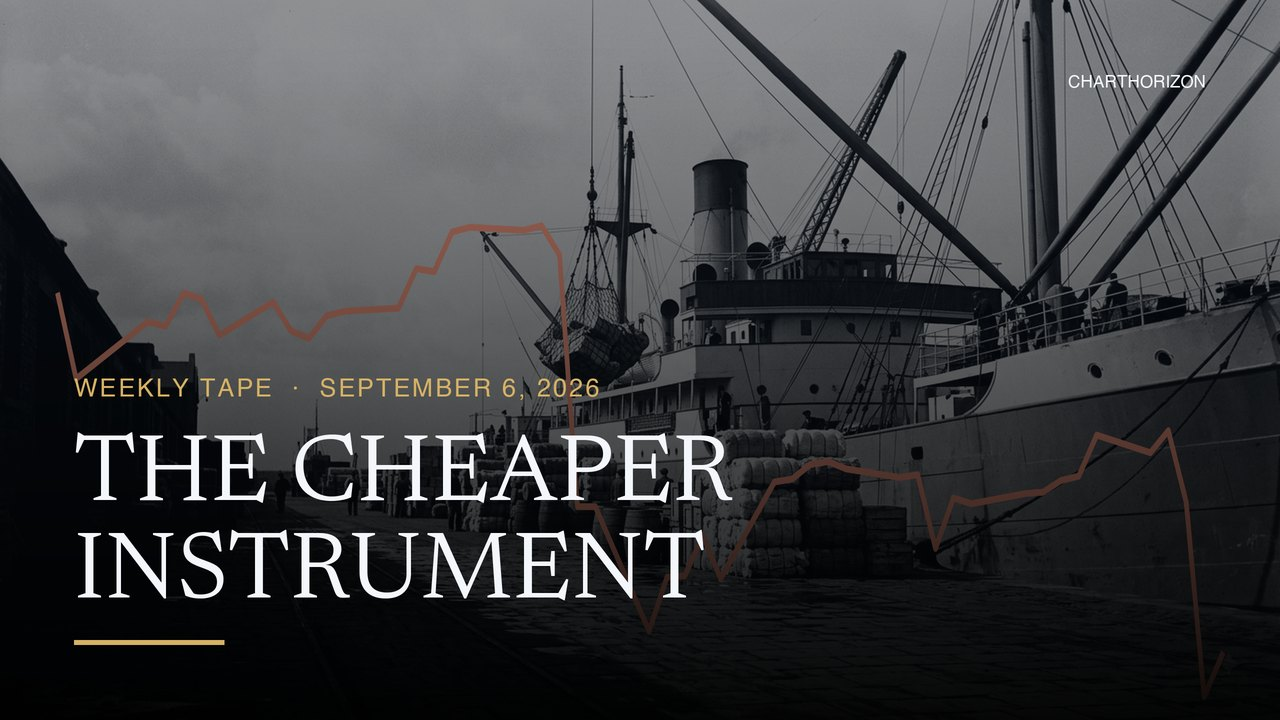
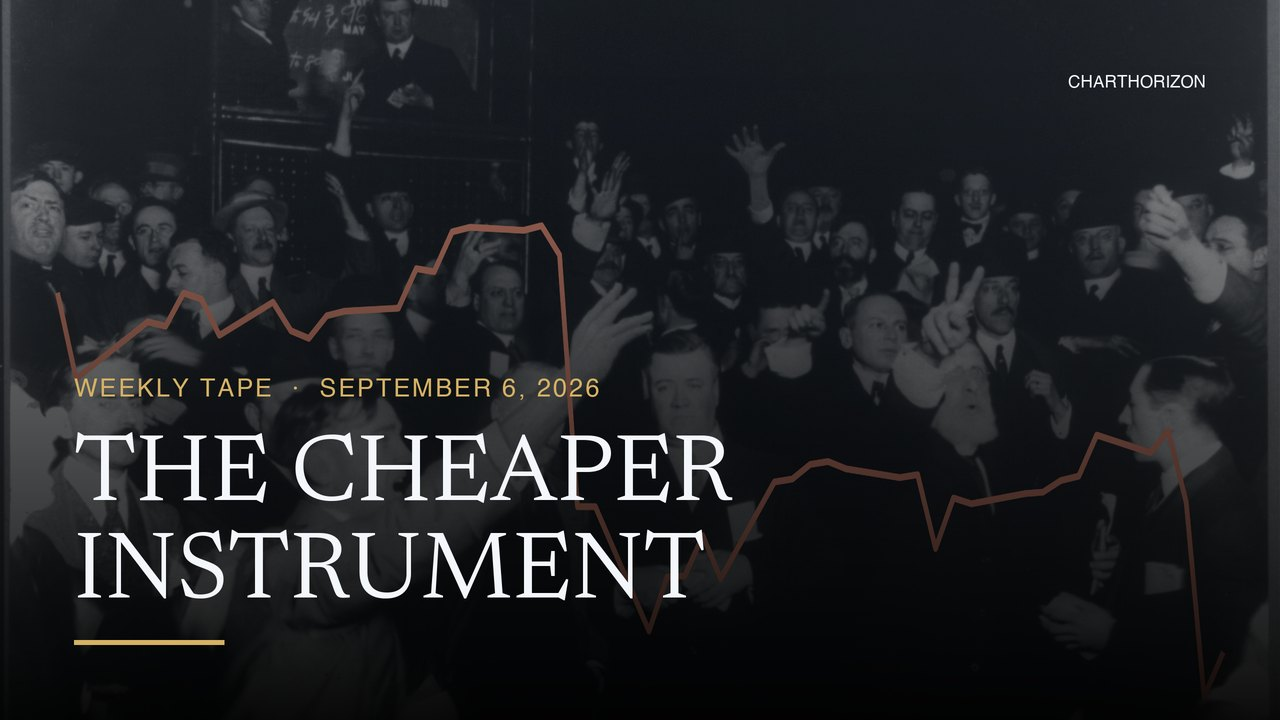
A 1920 pit for the cheaper instrument, and a motif the catalogue never exposed
The freighter had carried the last two currency notes (1 September and
1 August), so three in a row would have read as one picture.

thumb-arch-wheat-pit-1920.jpg sat in the scenes folder unregistered --
approved, not in _rejected, just never reachable from MOTIFS because
"grains" was already taken by the elevators. Nothing agricultural is in
the frame and no institution is named on it: it is a crowd bidding, which
is the subject of this piece. Registered as "pit".

The exchange facade was the other candidate and is ruled out here: it
carries NEW YORK STOCK EXCHANGE across the architrave, which is the wrong
institution for a note about the Ministry of Finance and the BOJ.

Claude-Session: https://claude.ai/code/session_01DkHnHuBULREGiiRhSGNNJr

diff --git a/docs/title_card.py b/docs/title_card.py
@@ -68,6 +68,11 @@ MOTIFS = {
     "equities": "thumb-arch-nyse-floor-1920.jpg",
     "macro":    "thumb-arch-exchange-facade-1928.jpg",
     "rates":    "thumb-arch-trading-posts-1922.jpg",
+    # A crowd of traders bidding, hands up. Catalogued as a wheat pit, but nothing
+    # agricultural is visible in the frame and no institution is named on it — which
+    # makes it the one motif that carries "a bid" rather than a market, and the reason
+    # it is registered separately instead of under "grains" (taken by the elevators).
+    "pit":      "thumb-arch-wheat-pit-1920.jpg",
 }
 
 SS = 2                                    # supersample, then downsample once at the end

diff --git a/_posts/2026-09-06-the-cheaper-instrument.md b/_posts/2026-09-06-the-cheaper-instrument.md
@@ -5,7 +5,7 @@ date: 2026-09-06
 subtitle: "Prices through 4 September 2026 · COT through the 1 September report · a currency note · Data: ChartHorizon, CFTC & press reports · Charts: ChartHorizon"
 cards: /assets/posts/2026-09-06-the-cheaper-instrument/cards
 image: /assets/posts/2026-09-06-the-cheaper-instrument/title.jpg
-image_alt: "Title card: a freighter at the dock, with the summer's dollar-yen price action drawn across it"
+image_alt: "Title card: a crowd of traders bidding in a 1920 pit, with the summer's dollar-yen price action drawn across it"
 seo_title: "Japan's Record ¥15.39tn Yen Intervention Bought Nothing — the BOJ Rate Bet Bought 2 Per Cent, Sep 6, 2026"
 description: "Tokyo spent ¥15.39 trillion between 30 July and 26 August, the largest month of yen buying ever recorded. On 2 September the dollar closed eight sen weaker than it had on the night of the first strike. On 3 September the yen gained 2.18 per cent in a session with no official money behind it at all — and the commercial hedgers had doubled their long two days before it happened."
 ---
